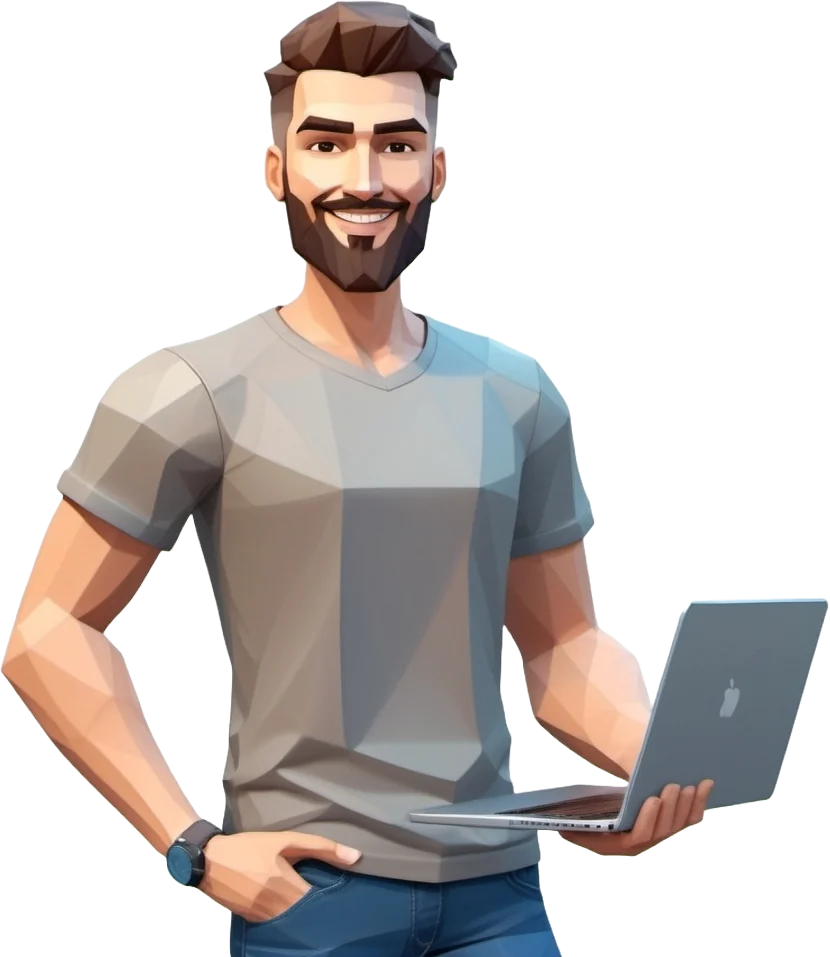
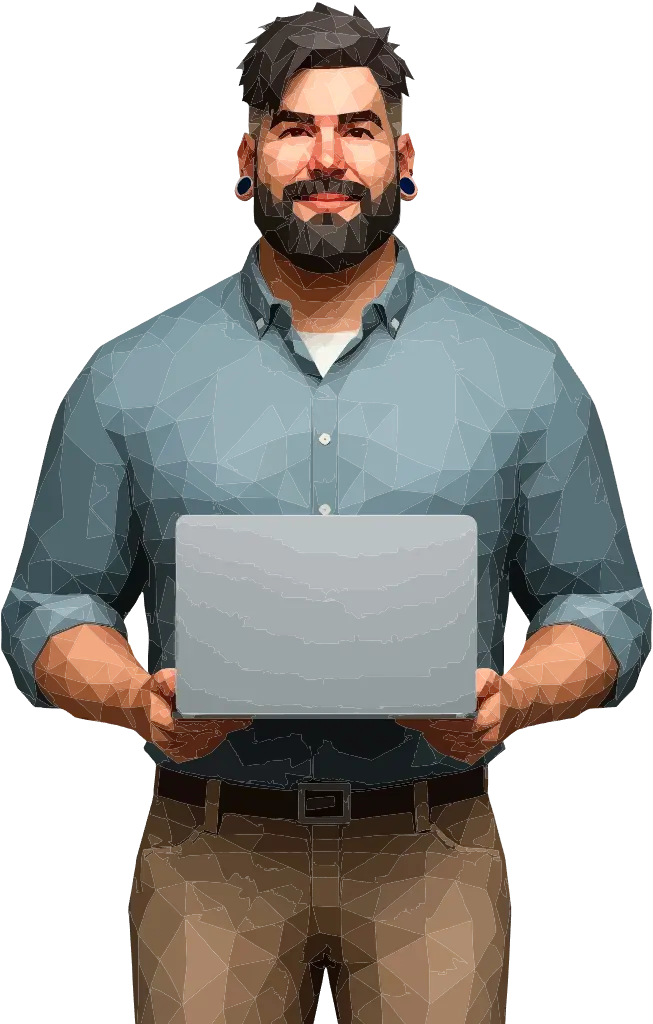
Update image and ajust  content

diff --git a/src/components/home/HomeDescription.vue b/src/components/home/HomeDescription.vue
@@ -6,7 +6,7 @@
       :alt="$t('views.home.images.dataBodyImage')"
       :title="$t('views.home.images.dataBodyImage')"
       width="250"
-      height="288"
+      height="392"
     />
     <img
       class="home-description__image-blurred"
@@ -14,7 +14,7 @@
       :alt="$t('views.home.images.dataBodyImageBlurred')"
       :title="$t('views.home.images.dataBodyImageBlurred')"
       width="250"
-      height="288"
+      height="392"
     />
     <article class="home-description__data">
       <h1 class="home-description__title">
@@ -43,10 +43,15 @@
 //Styles
 .home-description {
   display: flex;
-  padding: 25px 25px 0;
+  padding: 25px 125px 0;
   align-items: flex-end;
 
+  @media only screen and (width <= 1024px) {
+    padding: 25px 55px 0;
+  }
+
   @media only screen and (width <= 600px) {
+    padding: 25px 25px 0;
     flex-direction: column;
     align-items: center;
   }

diff --git a/src/components/home/HomePersonalDescription.vue b/src/components/home/HomePersonalDescription.vue
@@ -15,8 +15,8 @@
         src="@/assets/img/animals.webp"
         :alt="$t('views.home.images.dataBodyImage')"
         :title="$t('views.home.images.dataBodyImage')"
-        width="250"
-        height="239"
+        width="375"
+        height="359"
       />
     </article>
   </section>
@@ -31,7 +31,11 @@
 .home-personal-description {
   background-color: $main-color;
   color: $main-color-dark;
-  padding: 25px;
+  padding: 25px 125px;
+
+  @media only screen and (width <= 1024px) {
+    padding: 25px;
+  }
 
   &__content {
     display: flex;
